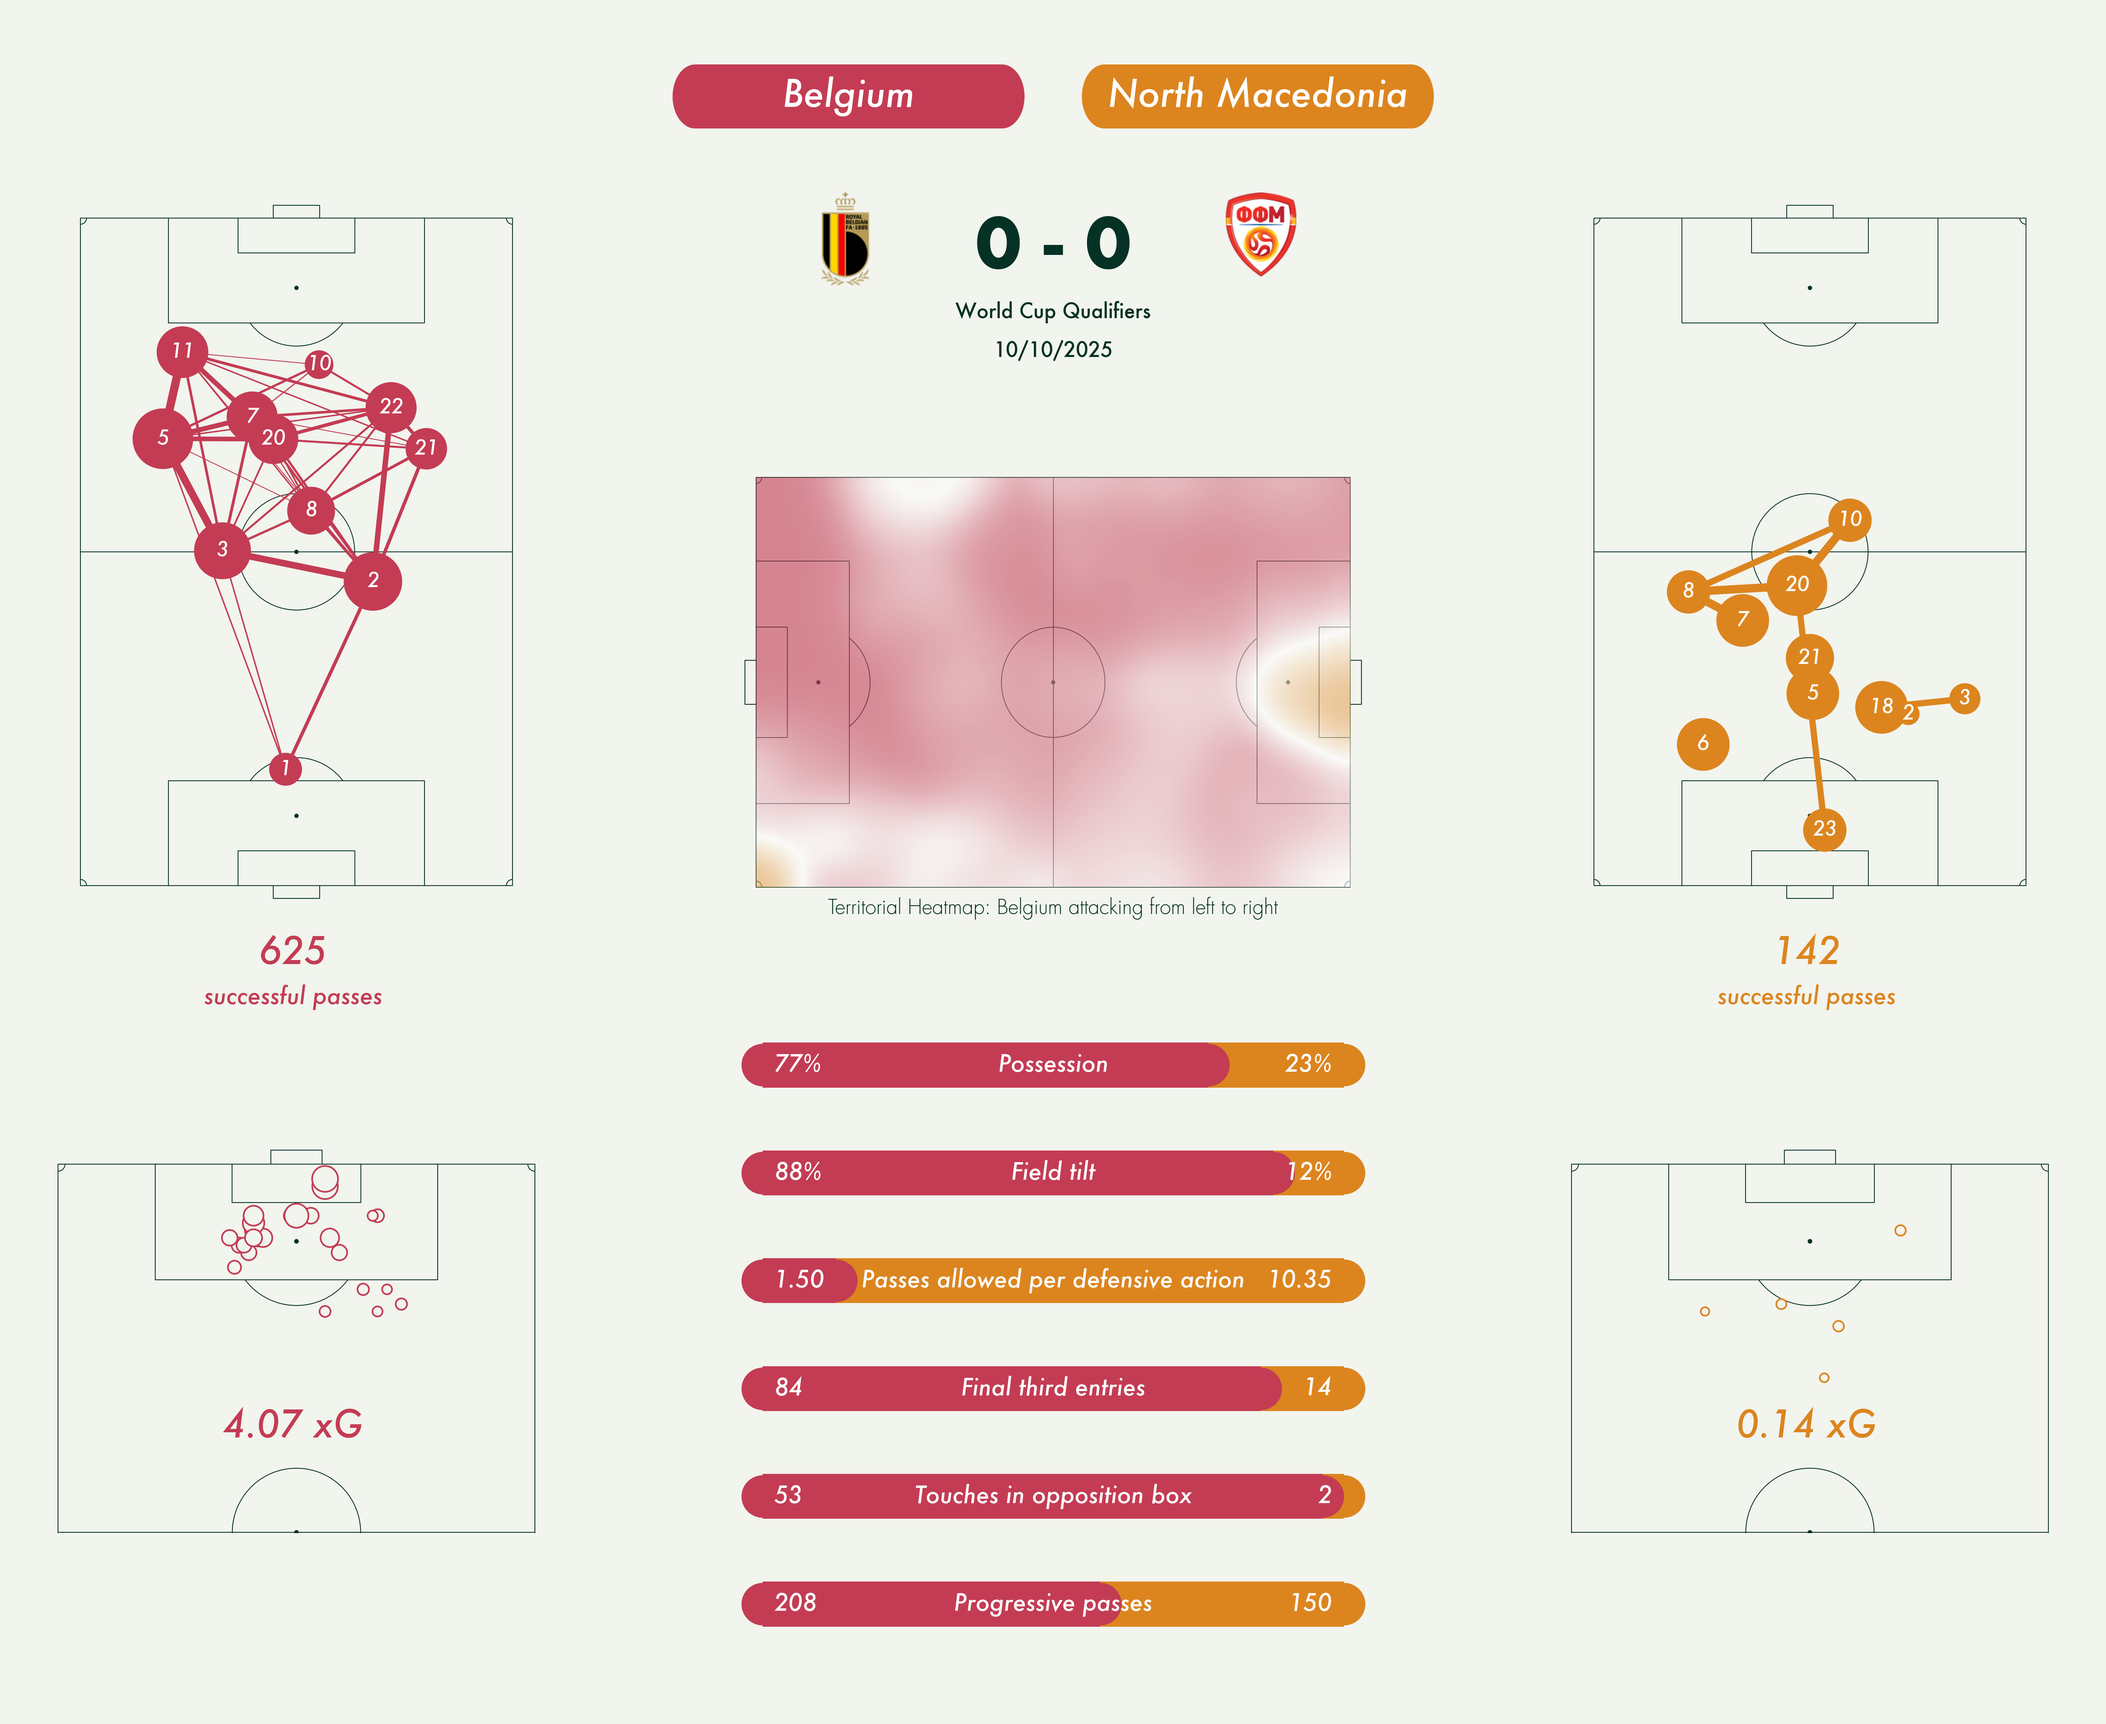
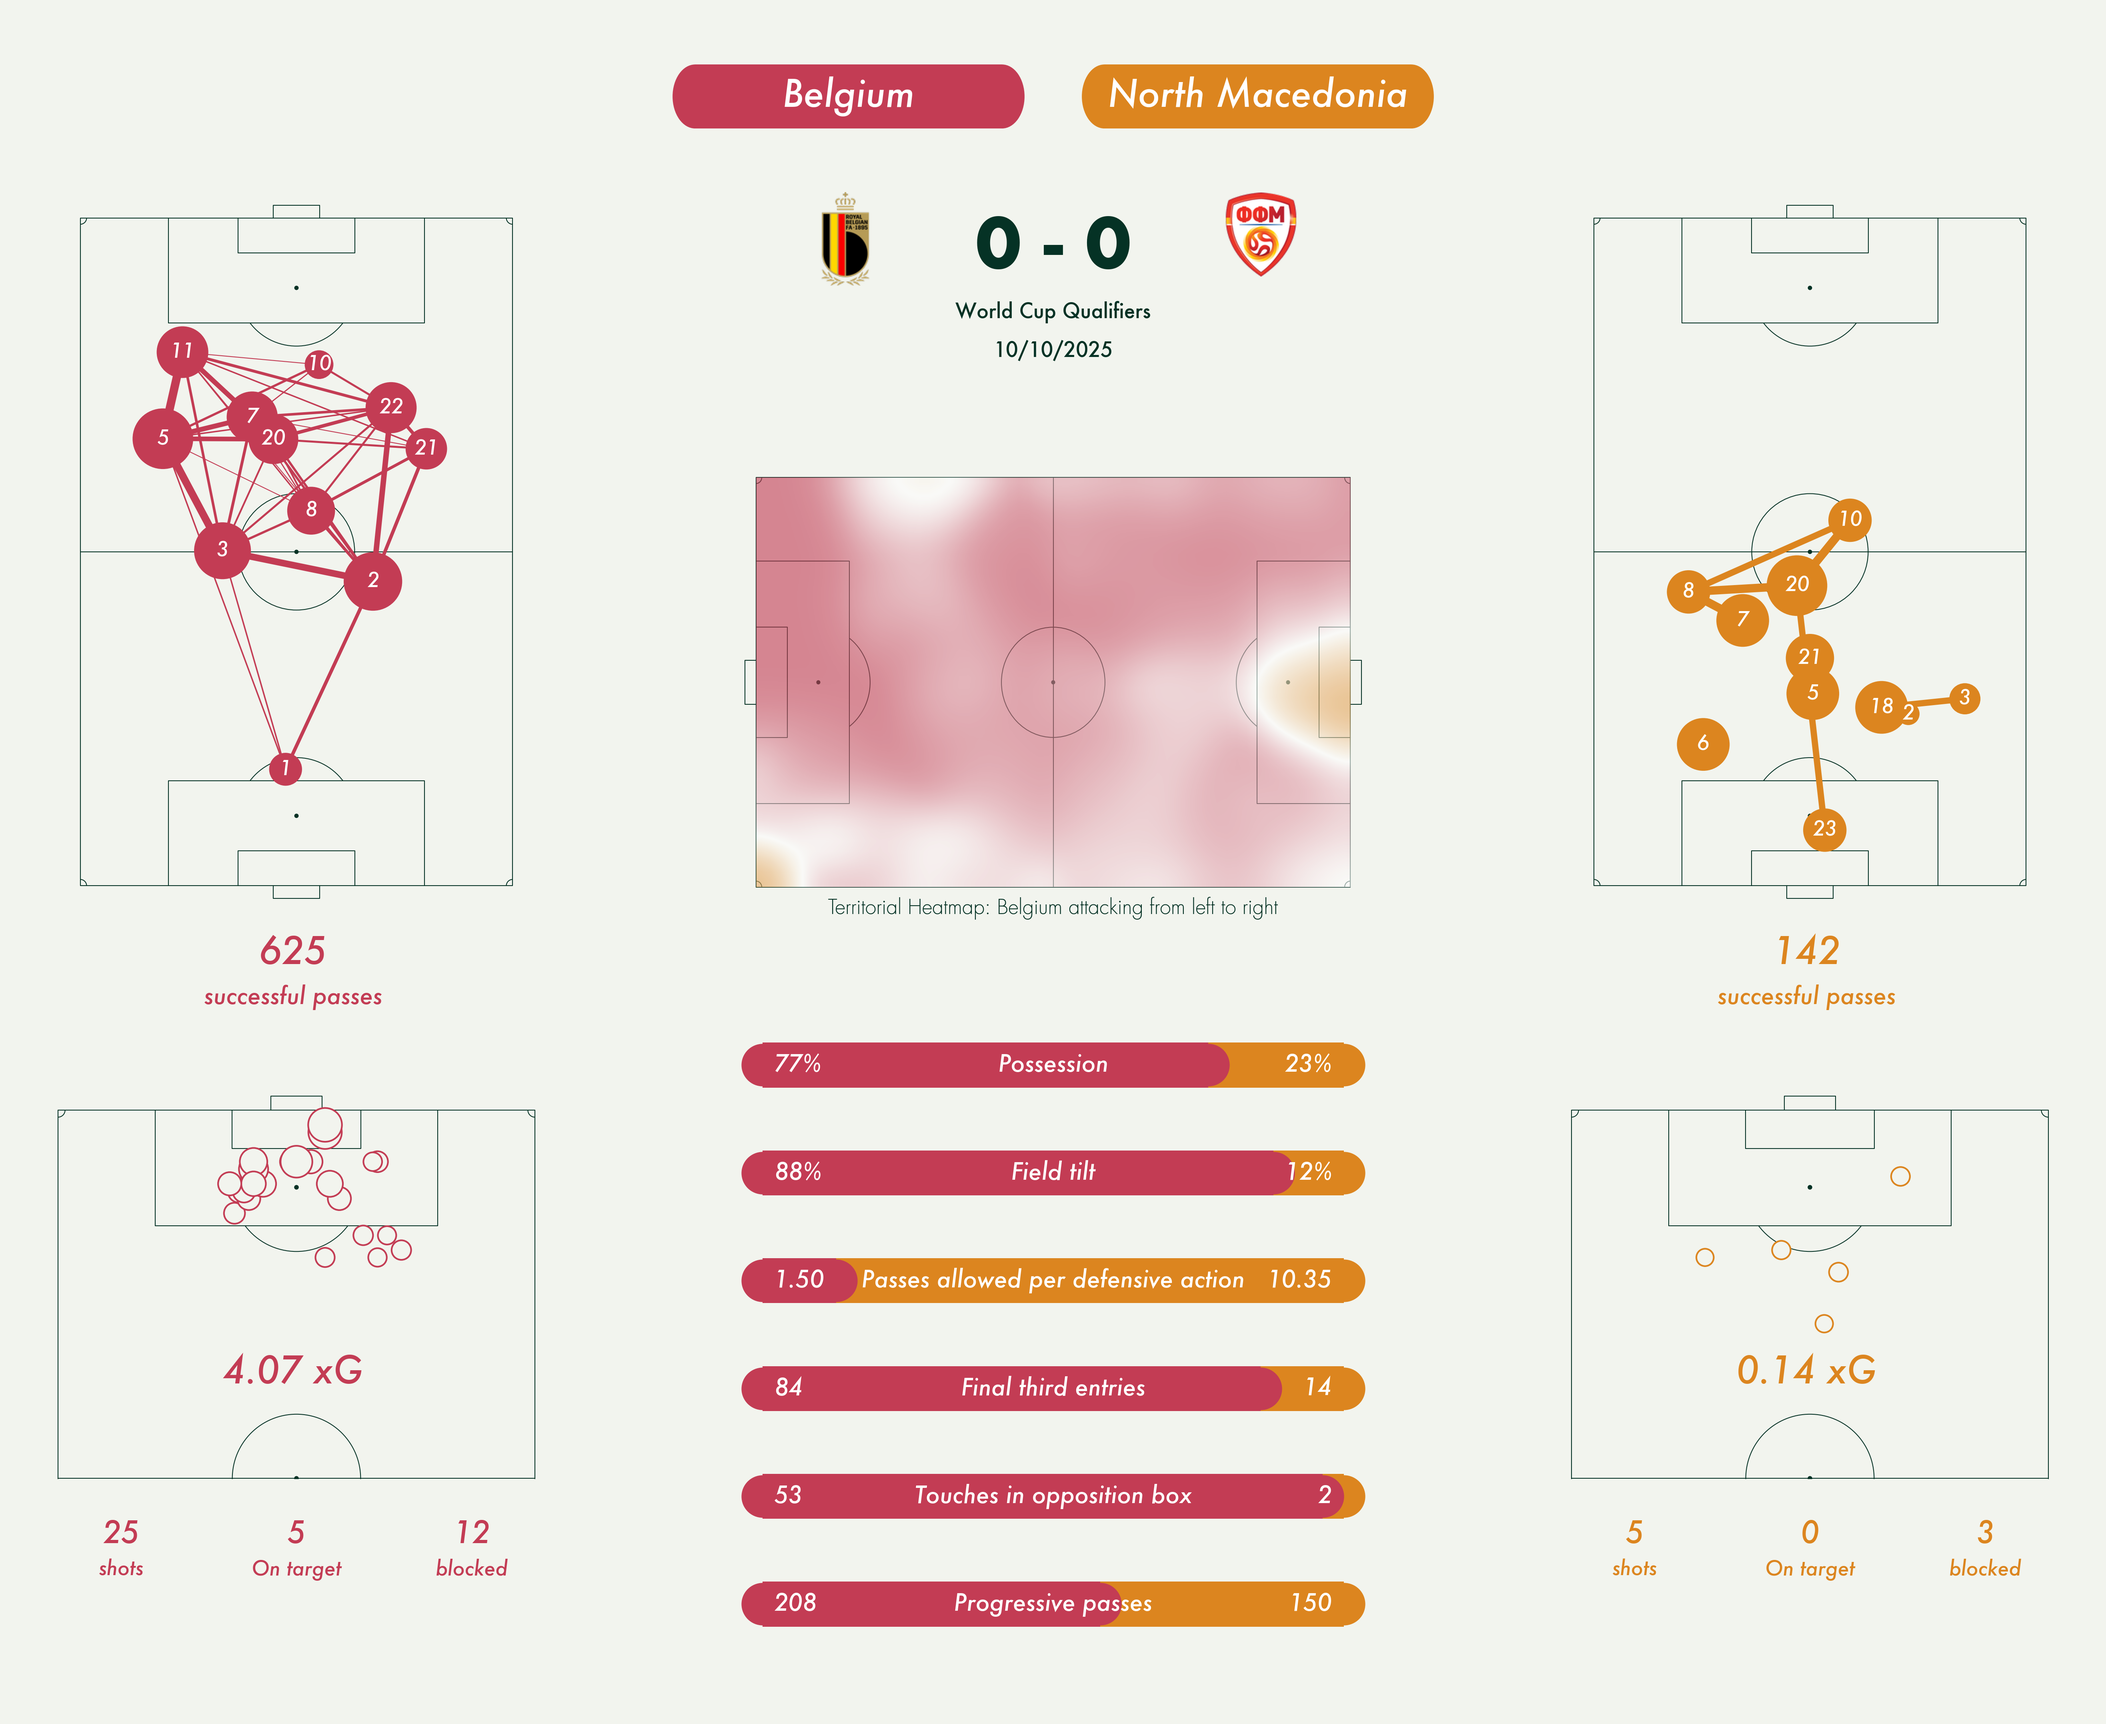
refactor: plot shot metrics

Changed region(s): [[0.0935, 0.6532, 0.1869, 0.7465], [0.8412, 0.7776, 0.9035, 0.8398], [0.1246, 0.7776, 0.1869, 0.8398]]

diff --git a/src/viz/game_summary.py b/src/viz/game_summary.py
@@ -520,28 +520,51 @@ def plot_shots(ax, events_df, metrics_df, team_name, team_color):
     )
     pitch.draw(ax=ax)
 
+    # Manually reposition the axes to move pitch up and create space below
+    pos = ax.get_position()  # Get current position [left, bottom, width, height]
+    # Move the axes up by reducing bottom and decreasing height
+    ax.set_position([pos.x0, pos.y0 + 0.025, pos.width, pos.height])
+
     # Get shots for team
     team_shots = events_df[
         (events_df['teamName'] == team_name) &
-        (events_df['baseTypeName'] == 'SHOT')
+        (events_df['baseTypeName'] == 'SHOT') &
+        (events_df['resultId'] != 1)
+    ].copy()
+
+    # Get goals for team
+    team_goals = events_df[
+        (events_df['teamName'] == team_name) &
+        (events_df['baseTypeName'] == 'SHOT') &
+        (events_df['resultId'] == 1)
     ].copy()
 
     # Get xG for each shot
     team_shots["xG"] = team_shots["metrics"].apply(lambda x: x["xG"] if x is not None else 0)
 
-    # Set scatter color based on result
-    filled_color = np.where(team_shots["resultId"] == 1, color, styling.colors['light'])
-
     # Plot shots
     pitch.scatter(
         team_shots["startPosXM"],
         team_shots["startPosYM"],
-        c=filled_color,
-        s=(team_shots["xG"] * 500) + 20, # Scale to xG
+        c=styling.colors['light'],
+        s=(team_shots["xG"] * 700) + 100, # Scale to xG
         edgecolors=color,
         linewidth=1,
         ax=ax,
     )
+
+    # Plot goals
+    if len(team_goals) > 0:
+        team_goals["xG"] = team_goals["metrics"].apply(lambda x: x["xG"] if x is not None else 0)
+        pitch.scatter(
+            team_goals["startPosXM"],
+            team_goals["startPosYM"],
+            c=color,
+            s=(team_goals["xG"] * 700) + 100, # Scale to xG
+            edgecolors=color,
+            linewidth=1,
+            ax=ax,
+        )
 
     # Plot total xG
     team_data = metrics_df[metrics_df['team'] == team_name].iloc[0]
@@ -553,3 +576,28 @@ def plot_shots(ax, events_df, metrics_df, team_name, team_color):
         ha='center',
         va='center',
     )
+
+    # Plot shot counts
+    shot_metrics = [
+        ("total_shots", "shots", 25),
+        ("on_target_shots", "On target", 0),
+        ("blocked_shots", "blocked", -25)
+    ]
+
+    for name, label, x_pos in shot_metrics:
+        ax.text(x_pos, -8,
+            f"{team_data[name]}",
+            fontsize=styling.typo["sizes"]["h2"],
+            fontproperties=styling.fonts['medium_italic'],
+            color=color,
+            ha='center',
+            va='center',
+        )
+        ax.text(x_pos, -13,
+            f"{label}",
+            fontsize=styling.typo["sizes"]["p"],
+            fontproperties=styling.fonts['medium_italic'],
+            color=color,
+            ha='center',
+            va='center',
+        )
